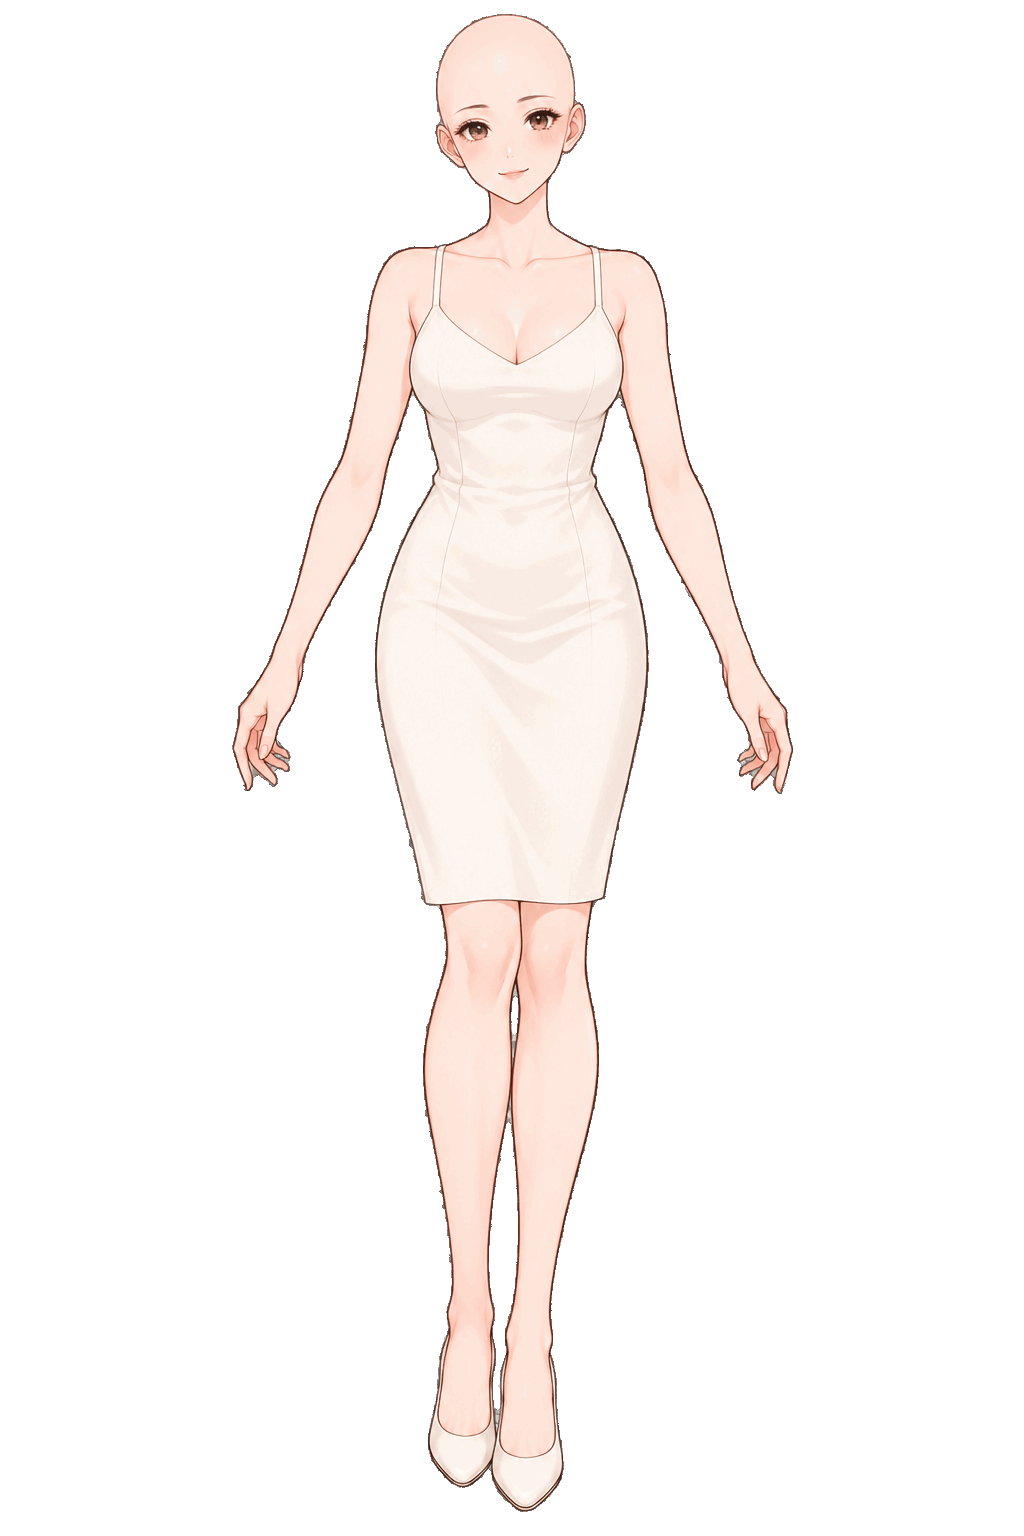
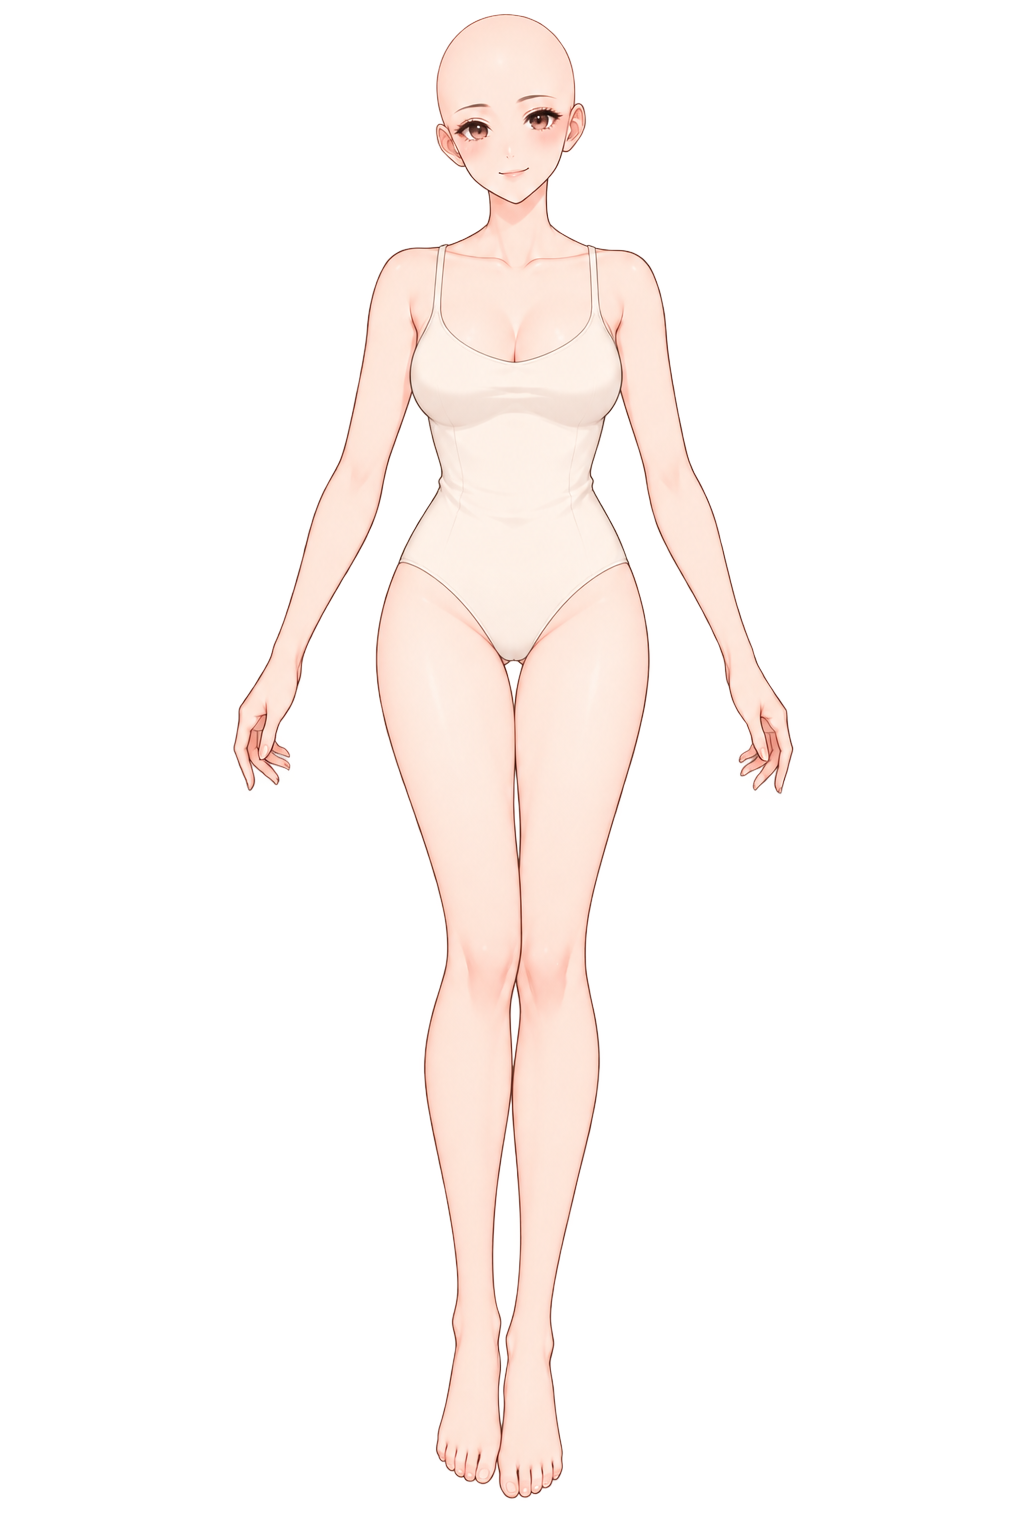
fix

diff --git a/src/owner-avatar.js b/src/owner-avatar.js
@@ -1,4 +1,4 @@
-import{OWNER_CANVAS,ownerAlphaBounds,ownerLayerCalibration}from'./owner-asset-metadata.js';
+import{OWNER_CANVAS,ownerAlphaBounds,ownerLayerCalibration,ownerShoePartCalibration}from'./owner-asset-metadata.js';
 
 const ROOT='./assets/owner/';
 const OWNER_ASSET_RENDER_FALLBACKS={BOTTOMS_08:'BOTTOMS_07'};
@@ -33,6 +33,7 @@ export function normalizeOwnerAssetAppearance(raw={}){
  if(!validId(a.hairColor,'COLOR')){let i=OWNER_HAIR_COLORS.findIndex(x=>x[0]===a.hairColor);if(i<0)i=oldColors.indexOf(a.hairColor);a.hairColor=id('COLOR',i<0?1:Math.min(i,11))}
  if(!validId(a.makeup,'MAKEUP'))a.makeup=makeupAliases[a.makeup]||'MAKEUP_01';
  for(const key of ['tops','bottoms','dress','outer','shoes','bag','accessories'])a[key]=resolvePart(a[key],key,DEFAULT_OWNER_APPEARANCE[key]);
+ if(Object.hasOwn(raw,'shoes')&&raw.shoes===null)a.shoes=null;
  for(const key of ['earrings','necklace','accessoryHead','accessoryWrist','brooch'])if(a[key]&&!validId(a[key],'ACC'))a[key]=DEFAULT_OWNER_APPEARANCE[key]||null;
  if(a.dress){a.tops=null;a.bottoms=null}
  return a;
@@ -43,15 +44,16 @@ export function ownerAssetBoundsForItem(item){const asset=ownerAssetForItem(item
 export function ownerHairLabel(value){const a=normalizeOwnerAssetAppearance({hairStyle:value});return OWNER_HAIR_NAMES[Number(a.hairStyle.slice(-2))-1]||OWNER_HAIR_NAMES[4]}
 export function ownerColorLabel(value){const a=normalizeOwnerAssetAppearance({hairColor:value});return OWNER_HAIR_COLORS[Number(a.hairColor.slice(-2))-1]?.[0]||OWNER_HAIR_COLORS[1][0]}
 
-const img=(path,cls,style='',calibration=null)=>{if(!path)return'';const c=calibration?`--layer-x:${calibration.x*100}%;--layer-y:${calibration.y*100}%;--layer-scale:${calibration.scale}`:'',inline=[style,c].filter(Boolean).join(';');return`<img class="owner-layer ${cls}" src="${ROOT}${path}" alt="" draggable="false" ${inline?`style="${inline}"`:''} onerror="this.hidden=true">`};
+const img=(path,cls,style='',calibration=null)=>{if(!path)return'';const c=calibration?`--layer-x:${calibration.x*100}%;--layer-y:${calibration.y*100}%;--layer-scale:${calibration.scale};--layer-origin-x:${calibration.originX*100}%;--layer-origin-y:${calibration.originY*100}%`:'',inline=[style,c].filter(Boolean).join(';');return`<img class="owner-layer ${cls}" src="${ROOT}${path}" alt="" draggable="false" ${inline?`style="${inline}"`:''} onerror="this.hidden=true">`};
 const accPath=id=>{const n=Number(id?.slice(-2));if(n<=2)return`accessories/earrings/${id}.png`;if(n<=4)return`accessories/necklace/${id}.png`;if(n<=7)return`accessories/head/${id}.png`;if(n<=9)return`accessories/wrist/${id}.png`;return`accessories/brooch/${id}.png`};
 const ownerPartPath=(folder,id)=>`${folder}/${OWNER_ASSET_RENDER_FALLBACKS[id]||id}.png`;
+const ownerShoeLayers=id=>{if(!id)return'';const path=ownerPartPath('shoes',id);return img(path,'owner-shoes owner-shoes-left','',ownerShoePartCalibration(id,'left'))+img(path,'owner-shoes owner-shoes-right','',ownerShoePartCalibration(id,'right'))};
 export function renderOwnerAvatar(appearance={},options={}){
  const a=normalizeOwnerAssetAppearance(appearance),n=Number(a.hairColor.slice(-2))-1,filter=OWNER_HAIR_COLORS[n]?.[2]||'';
  const showBag=options.showBag!==false,showAccessory=options.showAccessory!==false,size=options.size||'lg',name=options.name||'オーナー';
- const layers=[img('hair/styles/'+a.hairStyle+'_back.png','owner-hair owner-hair-back',`filter:${filter}`),img('base/body.png','owner-base'),img('base/skin.png','owner-skin'),img('base/face_base.png','owner-face'),img('base/eyes_default.png','owner-eyes'),img('base/eyebrows_default.png','owner-eyebrows'),img('makeup/'+a.makeup+'.png','owner-makeup'),img('base/mouth_default.png','owner-mouth'),img('hair/styles/'+a.hairStyle+'_front.png','owner-hair owner-hair-front',`filter:${filter}`)];
+ const layers=[img('hair/styles/'+a.hairStyle+'_back.png','owner-hair owner-hair-back',`filter:${filter}`),img('base/body.png','owner-base'),img('makeup/'+a.makeup+'.png','owner-makeup'),img('hair/styles/'+a.hairStyle+'_front.png','owner-hair owner-hair-front',`filter:${filter}`)];
  if(a.dress)layers.push(img(ownerPartPath('dress',a.dress),'owner-dress','',ownerLayerCalibration('dress',a.dress)));else layers.push(img(ownerPartPath('tops',a.tops),'owner-tops','',ownerLayerCalibration('tops',a.tops)),img(ownerPartPath('bottoms',a.bottoms),'owner-bottoms','',ownerLayerCalibration('bottoms',a.bottoms)));
- layers.push(img(a.outer?ownerPartPath('outer',a.outer):null,'owner-outer','',ownerLayerCalibration('outer',a.outer)),img(ownerPartPath('shoes',a.shoes),'owner-shoes','',ownerLayerCalibration('shoes',a.shoes)),img(showBag&&a.bag?ownerPartPath('bags',a.bag):null,'owner-bag','',ownerLayerCalibration('bag',a.bag)));
+ layers.push(img(a.outer?ownerPartPath('outer',a.outer):null,'owner-outer','',ownerLayerCalibration('outer',a.outer)),ownerShoeLayers(a.shoes),img(showBag&&a.bag?ownerPartPath('bags',a.bag):null,'owner-bag','',ownerLayerCalibration('bag',a.bag)));
  if(showAccessory)layers.push(img(a.earrings?accPath(a.earrings):null,'owner-accessory','',ownerLayerCalibration('accessory',a.earrings)),img(a.necklace?accPath(a.necklace):null,'owner-accessory','',ownerLayerCalibration('accessory',a.necklace)),img(a.accessoryHead?accPath(a.accessoryHead):null,'owner-accessory','',ownerLayerCalibration('accessory',a.accessoryHead)),img(a.accessoryWrist?accPath(a.accessoryWrist):null,'owner-accessory','',ownerLayerCalibration('accessory',a.accessoryWrist)),img(a.brooch?accPath(a.brooch):null,'owner-accessory','',ownerLayerCalibration('accessory',a.brooch)),img(a.accessories?accPath(a.accessories):null,'owner-accessory','',ownerLayerCalibration('accessory',a.accessories)));
  return`<figure class="portrait portrait-owner portrait-${size} owner-layer-avatar ${options.home?'owner-home-avatar':''} ${options.mode?'owner-mode-'+options.mode:''}" data-owner-stage="shared" data-owner-hair="${a.hairStyle}" data-owner-color="${a.hairColor}" data-owner-makeup="${a.makeup}"><div class="owner-avatar-canvas avatar-stage">${layers.join('')}</div>${options.caption===false?'':`<figcaption>${name}</figcaption>`}</figure>`;
 }

diff --git a/src/owner-avatar.css b/src/owner-avatar.css
@@ -1,7 +1,8 @@
 .owner-layer-avatar{position:relative;display:flex;flex-direction:column;align-items:center;justify-content:flex-end;margin:0;overflow:hidden;background:transparent!important;border:0!important;box-shadow:none!important}
 .owner-avatar-canvas{position:relative;flex:0 0 auto;width:100%;max-width:100%;aspect-ratio:2/3;isolation:isolate;overflow:hidden}
-.owner-avatar-canvas>.owner-layer{position:absolute;inset:0;width:100%;height:100%;max-width:100%;max-height:100%;object-fit:contain;object-position:50% 100%;transform:translate(var(--layer-x,0%),var(--layer-y,0%)) scale(var(--layer-scale,1));transform-origin:50% 100%;pointer-events:none;user-select:none}
+.owner-avatar-canvas>.owner-layer{position:absolute;inset:0;width:100%;height:100%;max-width:100%;max-height:100%;object-fit:contain;object-position:50% 100%;transform:translate(var(--layer-x,0%),var(--layer-y,0%)) scale(var(--layer-scale,1));transform-origin:var(--layer-origin-x,50%) var(--layer-origin-y,100%);pointer-events:none;user-select:none}
 .owner-hair-back{z-index:1}.owner-base{z-index:2}.owner-skin{z-index:3}.owner-shoes{z-index:4}.owner-bottoms{z-index:5}.owner-tops,.owner-dress{z-index:6}.owner-outer{z-index:7}.owner-face{z-index:8}.owner-eyes,.owner-eyebrows,.owner-makeup,.owner-mouth{z-index:9}.owner-hair-front{z-index:10}.owner-bag{z-index:11}.owner-accessory{z-index:12}
+.owner-shoes-left{clip-path:inset(0 53% 0 0)}.owner-shoes-right{clip-path:inset(0 0 0 47%)}
 .owner-layer-avatar figcaption{position:relative;z-index:30;flex:0 0 auto;margin-top:-4px;padding:4px 11px;border-radius:999px;background:rgba(255,249,246,.94);color:#5b4636;font-size:12px;font-weight:700;line-height:1.2;box-shadow:0 3px 12px rgba(90,70,65,.09)}
 .portrait-sm.owner-layer-avatar{width:min(112px,25vw);height:auto}.portrait-md.owner-layer-avatar{width:min(170px,38vw);height:auto}.portrait-lg.owner-layer-avatar{width:min(270px,56vw);height:auto}.portrait-xl.owner-layer-avatar{width:min(340px,70vw);height:auto}
 .owner-home-avatar{width:min(310px,51vw)!important}.owner-mode-town{width:min(126px,27vw)!important}.owner-mode-service .owner-bag{display:none}

diff --git a/src/owner-asset-metadata.js b/src/owner-asset-metadata.js
@@ -1,7 +1,7 @@
 export const OWNER_CANVAS={width:1024,height:1536};
 
 export const OWNER_ALPHA_BOUNDS={
- BODY:{x:232,y:14,width:561,height:1498},
+ BODY:{x:225,y:10,width:574,height:1494},
  TOPS_01:{x:338,y:225,width:347,height:339},TOPS_02:{x:331,y:225,width:362,height:341},TOPS_03:{x:331,y:225,width:362,height:362},TOPS_04:{x:336,y:225,width:351,height:337},TOPS_05:{x:331,y:225,width:362,height:362},TOPS_06:{x:331,y:225,width:362,height:361},TOPS_07:{x:331,y:225,width:362,height:362},TOPS_08:{x:337,y:225,width:349,height:361},TOPS_09:{x:338,y:225,width:347,height:322},TOPS_10:{x:331,y:225,width:362,height:315},TOPS_11:{x:331,y:225,width:362,height:362},TOPS_12:{x:336,y:225,width:352,height:362},
  BOTTOMS_01:{x:410,y:485,width:203,height:372},BOTTOMS_02:{x:326,y:485,width:371,height:436},BOTTOMS_03:{x:410,y:485,width:204,height:435},BOTTOMS_04:{x:379,y:485,width:265,height:472},BOTTOMS_05:{x:417,y:485,width:190,height:472},BOTTOMS_06:{x:388,y:485,width:248,height:470},BOTTOMS_07:{x:340,y:485,width:343,height:477},
  STYLE_01:{x:409,y:220,width:206,height:443},STYLE_02:{x:370,y:220,width:284,height:458},STYLE_03:{x:367,y:220,width:290,height:468},STYLE_04:{x:392,y:220,width:239,height:463},STYLE_05:{x:384,y:220,width:256,height:469},
